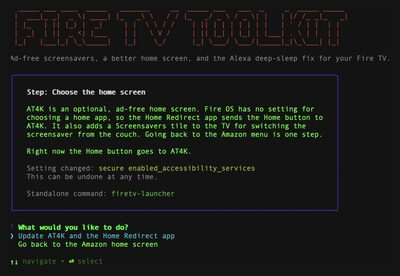
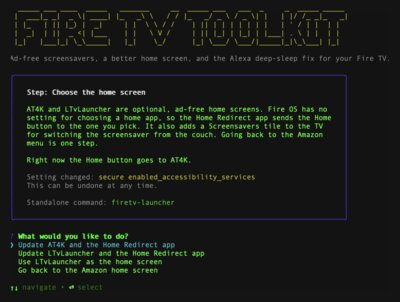
Describe LTvLauncher everywhere AT4K is described
Home Redirect 1.2.6 tells the TV's accessibility settings that it opens
AT4K or LTvLauncher. The uninstall guide explains that launchers start
unticked, the device report form and package keywords include
LTvLauncher, and the main menu and launcher screenshots show its options.

Changed region(s): [[0.03, 0.029, 0.99, 0.9565]]

diff --git a/src/launcher-registry.js b/src/launcher-registry.js
@@ -35,7 +35,7 @@ export const LTV = {
  * The newest release with a Home Redirect APK attached. Move it to the new
  * tag whenever a release attaches a newer build.
  */
-const HOME_REDIRECT_RELEASE = 'v3.9.0';
+const HOME_REDIRECT_RELEASE = 'v3.9.1';
 
 /** Built from android/home-redirect and attached to HOME_REDIRECT_RELEASE. */
 export const HOME_REDIRECT = {

diff --git a/docs/UNINSTALLING.md b/docs/UNINSTALLING.md
@@ -6,20 +6,24 @@
 firetv-revert
 ```
 
-A checklist of everything this tool changed that is still in place, all
-checked by default; uncheck anything you want to keep:
+A checklist of everything this tool changed that is still in place. Everything
+starts checked except removing AT4K or LTvLauncher; uncheck anything you want
+to keep:
 
 - the guard, first, so it does not put the reverts below straight back
 - the Alexa deep-sleep fix
 - the active screensaver (back to Amazon's)
 - each installed screensaver
 - each timeout that differs from its baseline
-- the Home button (back to the Amazon menu) and the launcher apps
+- the Home button (back to the Amazon menu) and the launcher apps. AT4K and
+  LTvLauncher start unchecked, because removing them deletes your home screen
+  layout; check them to remove them
 - the screensaver optimizations, each put back to the value it had before `optimize` changed it
 - the local screensaver source in `./screensavers`
 
 Reverting is a risky change, so it asks you to type `yes`. In scripts, use
-`firetv-revert --all --force`.
+`firetv-revert --all --force`, which reverts everything except removing AT4K
+and LTvLauncher.
 
 ## Remove everything
 

diff --git a/CHANGELOG.md b/CHANGELOG.md
@@ -1,5 +1,12 @@
 # Changelog
 
+## [3.9.1] - 2026-10-09
+
+### Fixed in 3.9.1
+
+- Home Redirect 1.2.6 describes itself as opening AT4K or LTvLauncher in the TV's accessibility settings, instead of AT4K only.
+- The uninstall guide, the device report form and the package keywords cover LTvLauncher, and the main menu and launcher screenshots show its options.
+
 ## [3.9.0] - 2026-10-09
 
 ### Added in 3.9.0
